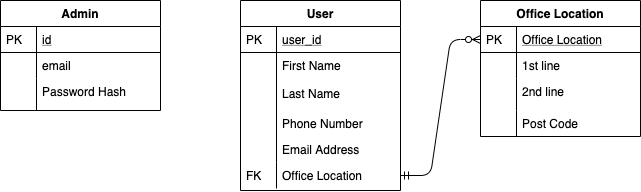
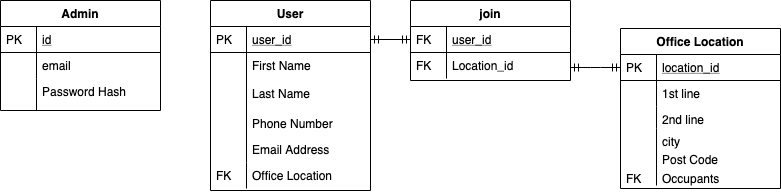
model change

diff --git a/application/models.py b/application/models.py
@@ -12,20 +12,25 @@ class Admin(db.Model, UserMixin):
             'Password Hash', str(self.password), '\n',
         ])
 
+connect = db.Table('join',
+    db.Column('contact_id', db.Integer, db.ForeignKey('contact.contact_id')),
+    db.Column('location_id', db.Integer, db.ForeignKet('Locations.location_id'))
+)
+
 class Locations(db.Model):
-    id = db.Column(db.Integer, primary_key = True)
+    location_id = db.Column(db.Integer, primary_key = True)
     first_line = db.Column(db.String(15), nullable = False)
     second_line = db.Column(db.String(15), nullable = True)
+    city = db.Column(db.String(15), nullable = False)
     post_code = db.Column(db.String(10), nullable = False)
-    occupants = db.relationship('Contacts', backref='Users', lazy=True)
 
 class Contact(db.Model):
-    id = db.Column(db.Integer, primary_key = True)    
+    user_id = db.Column(db.Integer, primary_key = True)    
     first_name = db.Column(db.String(10), nullable = False)
     last_name = db.Column(db.String(20), nullable = False)
     email_address = db.Column(db.String(30), nullable = False)
     phone_number = db.Column(db.String(15), nullable = False)
-    office_location = db.Column(db.Integer, db.ForeignKey('Locations.id'), nullable = False)
+    office_locations = db.relationship('Locations', secondary=join, backref=db.backref('Occupants', lazy='dynamic'))
 
 @login_manager.user_loader
 def load_user(id):

diff --git a/application/routes.py b/application/routes.py
@@ -1,7 +1,7 @@
 from flask import render_template, redirect, url_for, request
 from flask_login import login_user, current_user, logout_user, login_required
 from application import app, db, bcrypt, login_manager
-from application.models import Admin, Contact, Office_Locations
+from application.models import Admin, Contact, Locations
 from application.forms import LoginForm
 
 from application import app 
